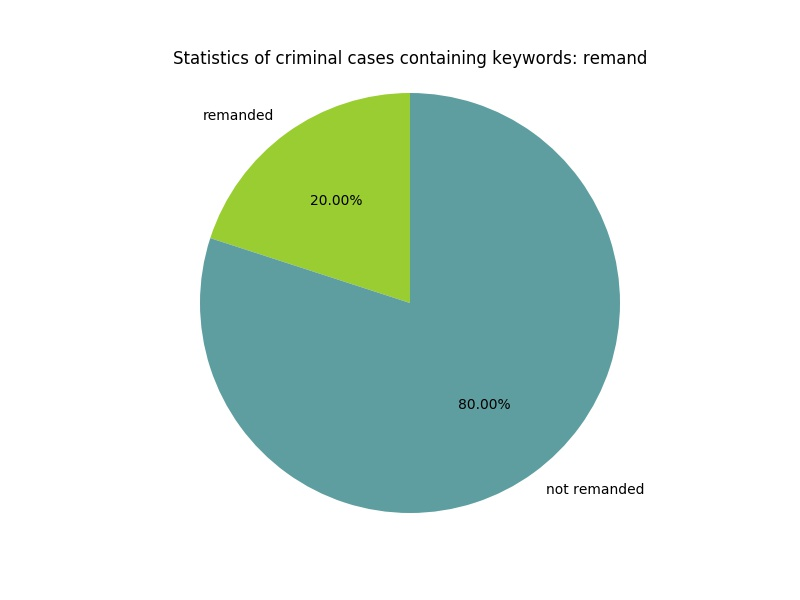
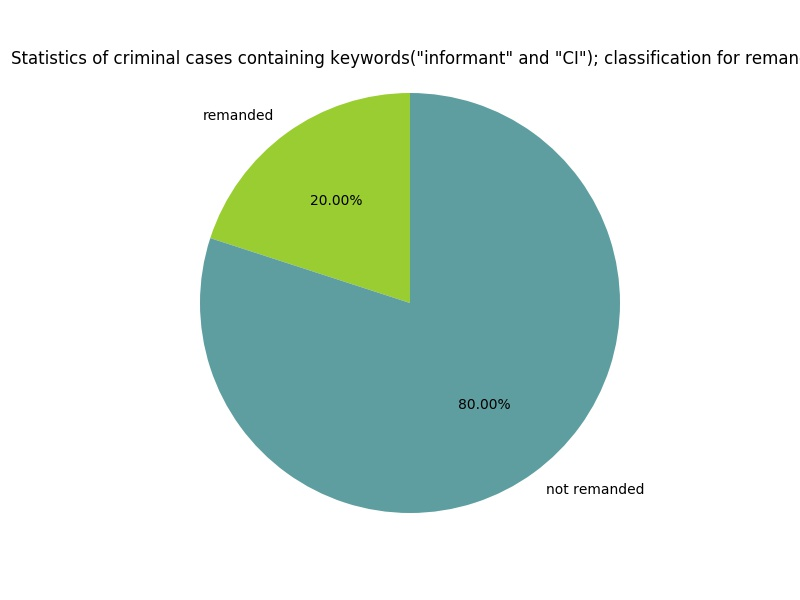
Qitong Wang fixed a small bug, making it more clearly.

Changed region(s): [[0.0, 0.09, 1.0, 0.12]]

diff --git a/src/search_keywords.py b/src/search_keywords.py
@@ -29,7 +29,7 @@ def result_visualization(num_affirmed, num_part, num_reversed, num_remanded, num
                                     shadow=False,
                                     startangle=90,
                                     pctdistance=0.6)
-    plt.title('Statistics of criminal cases containing keywords: affirmation')
+    plt.title('Statistics of criminal cases containing keywords("informant" and "CI"); classification for affirmation')
     plt.axis('equal')
     plt.savefig('pie_pic/KW_affirm.jpg')
     # 2
@@ -46,7 +46,7 @@ def result_visualization(num_affirmed, num_part, num_reversed, num_remanded, num
                                     shadow=False,
                                     startangle=90,
                                     pctdistance=0.6)
-    plt.title('Statistics of criminal cases not containing keywords: affirmation')
+    plt.title('Statistics of criminal cases not containing keywords("informant" and "CI"); classification for affirmation')
     plt.axis('equal')
     plt.savefig('pie_pic/NKW_affirm.jpg')
     # 3
@@ -63,7 +63,7 @@ def result_visualization(num_affirmed, num_part, num_reversed, num_remanded, num
                                     shadow=False,
                                     startangle=90,
                                     pctdistance=0.6)
-    plt.title('Statistics of criminal cases containing keywords: remand')
+    plt.title('Statistics of criminal cases containing keywords("informant" and "CI"); classification for remand')
     plt.axis('equal')
     plt.savefig('pie_pic/KW_remand.jpg')
     # 4
@@ -80,7 +80,7 @@ def result_visualization(num_affirmed, num_part, num_reversed, num_remanded, num
                                     shadow=False,
                                     startangle=90,
                                     pctdistance=0.6)
-    plt.title('Statistics of criminal not cases containing keywords: remand')
+    plt.title('Statistics of criminal not cases containing keywords("informant" and "CI"); classification for remand')
     plt.axis('equal')
     plt.savefig('pie_pic/NKW_remand.jpg')
 
